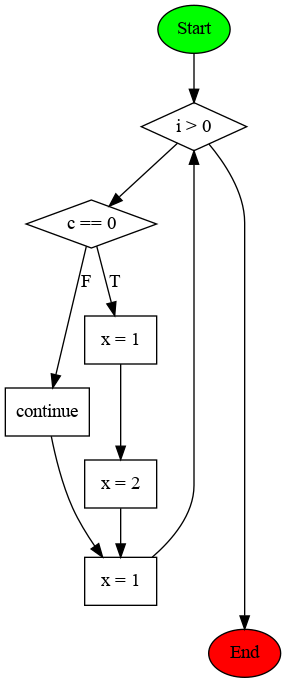
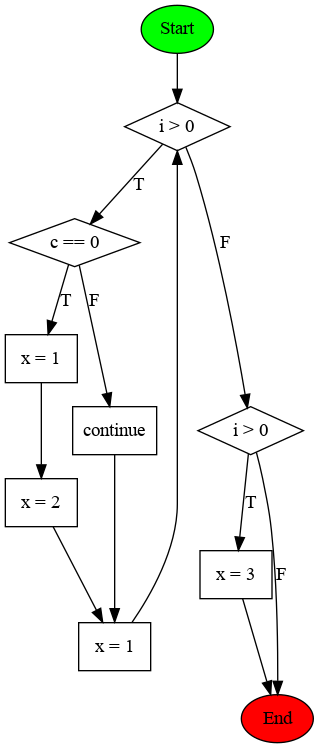
Update

diff --git a/ssa/main.py b/ssa/main.py
@@ -26,7 +26,6 @@ class NodeType(Enum):
     START = auto()
     ASSIGN = auto()
     IF = auto()
-    WHILE = auto()
     BREAK = auto()
     CONTINUE = auto()
     END = auto()
@@ -131,14 +130,10 @@ class CFGBuilder(NodeVisitor):
             rhs = node.test.comparators[0].id
         label = f"{lhs} {comparator} {rhs}"
 
-        condition_statement_type = (
-            NodeType.WHILE if condition_statement is WhileStatement else NodeType.IF
-        )
-
         condition_statement = condition_statement(
             NodeData(
                 _id=self.counter,
-                _type=condition_statement_type,
+                _type=NodeType.IF,
                 label=label,
             )
         )
@@ -299,6 +294,8 @@ def main():
             else:
                 continue
             x = 1
+        if i > 0:
+            x = 3
         """
     )
 
